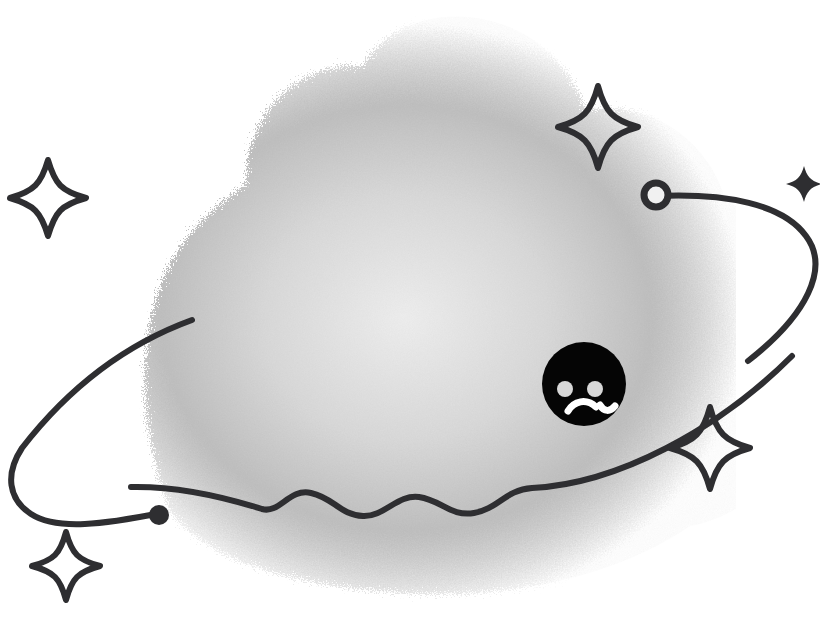
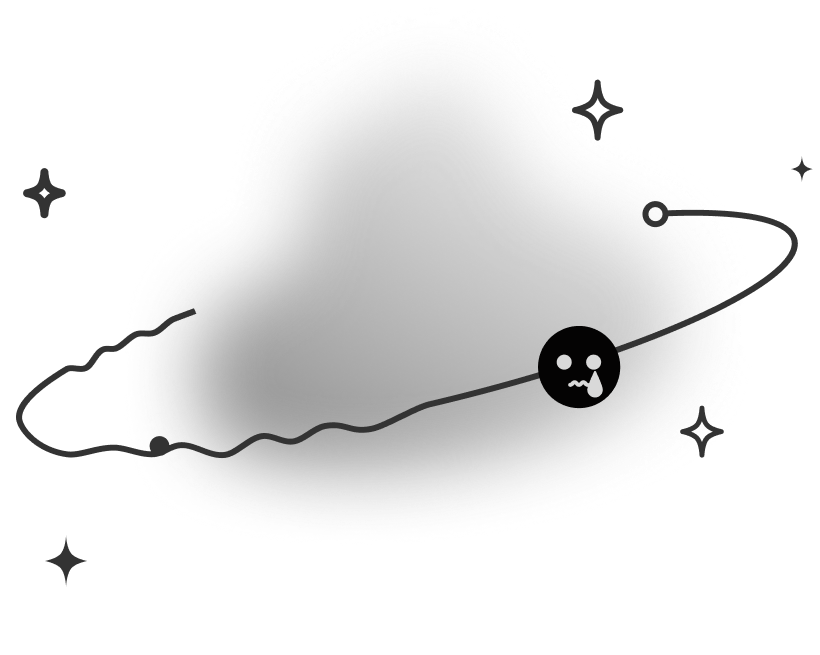
fix desktop companion default state

diff --git a/apps/desktop/src/view.js b/apps/desktop/src/view.js
@@ -163,13 +163,16 @@ export function restartButtonState(daemon, service) {
   return { action: "install", label: "去设置向导", helper: "尚未安装为后台服务；点这里走完设置向导。" }
 }
 
-// Hero block for the dashboard top: "DAEMON · running" with a sub-line.
+// Hero block for the dashboard top. In the user-facing dashboard, a bound
+// account means the companion relationship is established; transient daemon
+// downtime should keep the reconnect affordance without making the default
+// moment read as "AI lost".
 export function dashboardHero(daemon, accountCount) {
-  if (daemon.alive) {
+  if (daemon.alive || accountCount > 0) {
     return {
       headline: "running",
       tone: "ok",
-      meta1: `pid ${daemon.pid}`,
+      meta1: daemon.alive ? `pid ${daemon.pid}` : "waiting for daemon",
       meta2: accountCount === 1 ? "1 account live" : `${accountCount} accounts live`,
     }
   }

diff --git a/apps/desktop/src/view.test.ts b/apps/desktop/src/view.test.ts
@@ -335,6 +335,10 @@ describe('dashboardHero', () => {
   it('alive with single account → singular copy', () => {
     expect(dashboardHero({ alive: true, pid: 7 }, 1).meta2).toBe('1 account live')
   })
+  it('bound account with daemon temporarily down → still presents companion as active', () => {
+    expect(dashboardHero({ alive: false, pid: null }, 1))
+      .toEqual({ headline: 'running', tone: 'ok', meta1: 'waiting for daemon', meta2: '1 account live' })
+  })
   it('stale pid → warn tone', () => {
     expect(dashboardHero({ alive: false, pid: 99 }, 0).tone).toBe('warn')
     expect(dashboardHero({ alive: false, pid: 99 }, 0).headline).toBe('stale')